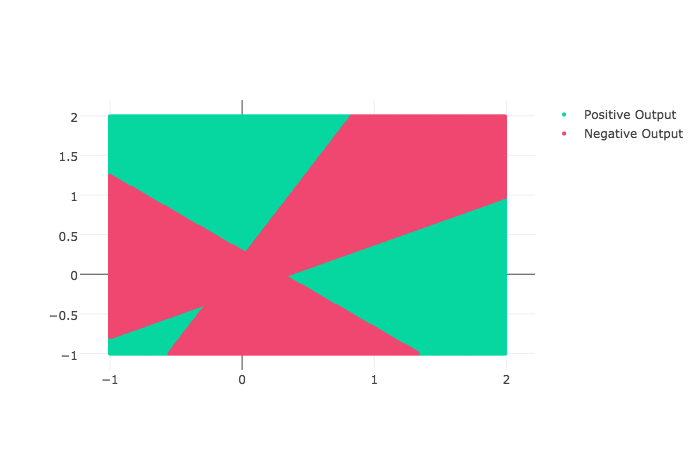
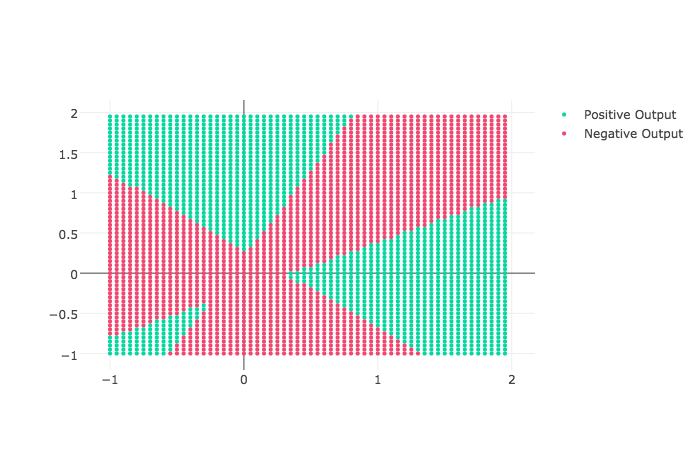
grammar and plot update

diff --git a/README.md b/README.md
@@ -28,7 +28,7 @@ to the entire network, each element is a layer and each element's value is the
 number of perceptrons for that layer. The last element should always be `1` as
 the network assumes there is a single output perceptron. The `initial_weights`
 correponds to the initial weights for all of the connections. It's a 3-dimensional
-array. The first dimension is the entire network and each element is a signle layer,
+array. The first dimension is the entire network and each element is a single layer,
 similar to the `config`. The second dimension is a layer and each element is
 a single perceptron in that layer. The third dimension is an individual perceptron
 and each element correponds to a connection. The number of weights should be
@@ -61,7 +61,7 @@ true -1 2 40` produces something like the following. It creates a network with
 ![single-hidden-layer](/assets/single-hidden-layer.png)
 
 Provided with the 4 training examples for the XOR function, with a maximum iteration
-of `4000` for training and graphing from `(-1, -1)` to `(2, 2)` with `40` steps per
+of `4000` for training and graphing from `(-1, -1)` to `(2, 2)` with `20` steps per
 unit produces the following visualization.
 
 ![XOR](/assets/xor.png)
